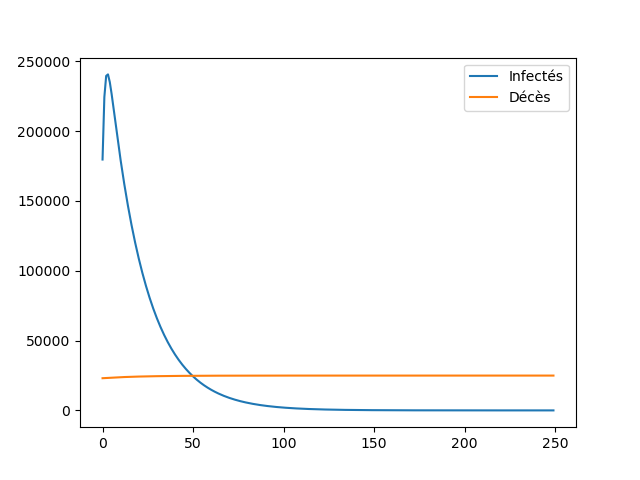
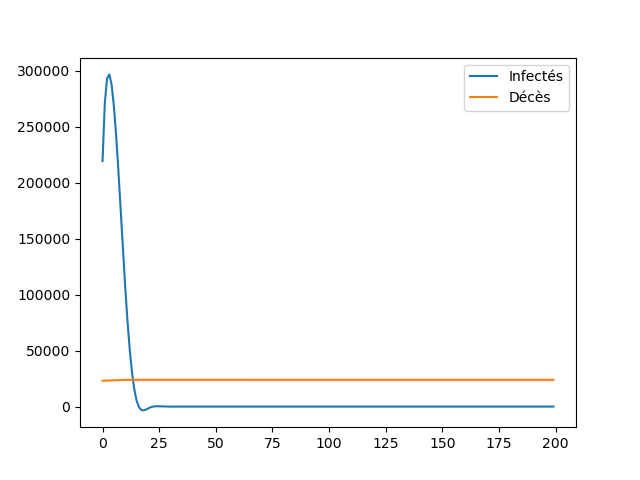
fs + dr

diff --git a/scire.py b/scire.py
@@ -8,28 +8,46 @@ import functools
 #Sain Contaminé Infecté Rétabli Etendu
 class SCIRE:
 
-    def __init__(self, S0 = 1, C0 = 0, I0 = 0, R0 = 0, r0 = 3.3, v = 2, lmbda = 15, mu = 0.005):
-        self.S = S0
-        self.C = C0
-        self.I = I0
-        self.R = R0
+    def __init__(self, S = 1, C = 0, I = 0, R = 0, r0 = 3.3, v = 2, lmbda = 15, mu = 0.005, dr = 0, fs = lambda _: 0):
+        """
+        :param S: Sain
+        :param C: Contaminé
+        :param I: Infecté
+        :param R: Rétablis
+        :param r0: nombre moyen de contaminé par un infecté
+        :param v: durée incubation sans être contagieux
+        :param lmbda: durée moyenne de contagieusité
+        :param mu: taux de mortalité
+        :param dr: facteur de décroissance de R par rapport à R0
+        :param fs: fonction de saisonalité
+        """
+        self.S = S
+        self.C = C
+        self.I = I
+        self.R = R
         self.DC = 0
         self.beta = r0 / lmbda
         self.v = v
         self.lmbda = lmbda
         self.mu = mu
-        self.fdsdt = lambda S, I: -self.beta * I * S  # ds/dt
-        self.fdcdt = lambda S, C, I,: self.beta * I * S - C / v  # dc/dt
+        self.dr = dr
+        self.fs = fs
+        self.i = 0
+        self.fdsdt = lambda S, I: -(self.beta+ self.fs(self.i)) * I * S  # ds/dt
+        self.fdcdt = lambda S, C, I,: (self.beta + self.fs(self.i)) * I * S - C / v  # dc/dt
         self.fdidt = lambda C, I: C / v - I / self.lmbda - self.mu * I  # dc/dt
         self.fdrdt = lambda I: -I / self.lmbda #dr/dt
-        self.fddcdt = lambda I: self.mu * I / lmbda #ddc/dt
+        self.fddcdt = lambda I: self.mu * I / self.lmbda #ddc/dt
+        self.fdbetadt = lambda : -self.dr / self.lmbda
 
     def computedt(self):
         self.S += self.fdsdt(self.S, self.I)
-        self.C += self.fdcdt(self.S, self.C, self.I)
-        self.I += self.fdidt(self.C, self.I)
+        self.C += np.max(self.fdcdt(self.S, self.C, self.I), 0)
+        self.I += np.max(self.fdidt(self.C, self.I), 0)
         self.R += self.fdrdt(self.I)
-        self.DC += self.fddcdt(self.I)
+        self.DC += np.max(self.fddcdt(self.I), 0)
+        self.beta += self.fdbetadt()
+        self.i += 1
 
     def compute(self, dt):
         scires = []
@@ -74,30 +92,31 @@ if __name__ == '__main__':
     # plt.show()
 
     # Confinement
-    DC45 = 2281
-    I0 = (DC45 / mu) / nbfrench #Taux Infection
-    notdetectedrate = 6
-    C0 = I0 * notdetectedrate #Taux Contaminé
-    S0 = 1 - I0 - C0 #Taux Sain
-    scire = SCIRE(S0, C0, I0, r0=0.8,v=v,lmbda=lmbda,mu=mu)
-    scires = scire.compute(118-45)
-    i = np.array([x.I for x in scires])
-    dc = np.array([x.DC for x in scires]) + DC45 / nbfrench
-    plt.plot(i * nbfrench, label="Infectés")
-    plt.plot(dc * nbfrench, label="Décès")
-    plt.legend()
-    plt.show()
+    # DC45 = 2281
+    # I0 = (DC45 / mu) / nbfrench #Taux Infection
+    # notdetectedrate = 6
+    # C0 = I0 * notdetectedrate #Taux Contaminé
+    # S0 = 1 - I0 - C0 #Taux Sain
+    # scire = SCIRE(S0, C0, I0, r0=0.8,v=v,lmbda=lmbda,mu=mu)
+    # scires = scire.compute(118-45)
+    # i = np.array([x.I for x in scires])
+    # dc = np.array([x.DC for x in scires]) + DC45 / nbfrench
+    # plt.plot(i * nbfrench, label="Infectés")
+    # plt.plot(dc * nbfrench, label="Décès")
+    # plt.legend()
+    # plt.show()
 
     # Déconfinement
     DC128 = 23000
     R128 = 180000
     detectionrate = 0.5 # 1 0.5 0.1
-    summerrate = 0.5 # 1 0.5 0.1
     C0 = ((DC128 / mu) - R128) / nbfrench * detectionrate
     I0 = C0 / notdetectedrate # Taux Infection
     S0 = 1 - I0 - C0  # Taux Sain
-    scire = SCIRE(S0, C0, I0, r0=R0 * detectionrate * summerrate,v=v,lmbda=lmbda,mu=mu) #R0,0.01,R0*0.1,1
-    scires = scire.compute(250)
+    fsummer = lambda x : -np.sin((x + 118 - 365 / 4 - 30) * 2 * np.pi / 365) * R0 / 2
+    print(fsummer(np.arange(365)))
+    scire = SCIRE(S0, C0, I0, r0=R0 * detectionrate,v=v,lmbda=lmbda,mu=mu,dr=0.01,fs = fsummer) #0.1 0.01
+    scires = scire.compute(365)
     ctot = 1 - np.array([x.S for x in scires])
     c = np.array([x.C for x in scires])
     i = np.array([x.I for x in scires])

diff --git a/readme.md b/readme.md
@@ -4,33 +4,34 @@
 <p>Evidement <b>je ne suis pas médecin</b> donc cette étude ne vaut rien!!</p>
 <p>J'ai téléchargé et nettoyé les données sur https://coronavirus.politologue.com/coronavirus-france.FR </p>
 <p>J'ai utilisé le framework Scikit-Learn en Python pour analyser les données avec du Machine Learning (ML) et une régression polynômiale ridge de degré 4. Il était impossible d'utiliser Keras car le nombre de données est trop faible</p>
-<p>J'ai également programmé en Python le modèle SCIRE (Sain-Contaminé-Infecté-Rétablie-Etendue) avec des améliorations d'après https://interstices.info/modeliser-la-propagation-dune-epidemie
+<p>J'ai également programmé en Python le modèle SCIRE+ (Sain-Contaminé-Infecté-Rétablie-Etendue) avec des améliorations en modulant le facteur r d'après https://interstices.info/modeliser-la-propagation-dune-epidemie
 <img src="data/scir.png"><img src="https://scikit-learn.org/stable/_static/scikit-learn-logo-small.png"><img src="https://www.python.org/static/img/python-logo@2x.png">
 <h2>Etude 3: Le déconfinement</h2>
-<p>Au déconfinement, le 11 mai (J128), je propose 4 scénarios, pour cela j'ai modifié SCIRE pour ajouter un taux de détection des individus infectés et un taux d'atténuation dû à l'été R = R * DetectionRate * SummerRate, le modèle ML ne peut pas marcher pour le scénarios pessimistes car il ne devine pas la remontée de la courbe
-<p>Scénario Marseillais optimiste: Comme le SRAS et comme le propose le professeur Raoult, le virus disparait, R = R0 * 0.1 * 0.1 = 0.03
+<p>Au déconfinement, le 11 mai (J128), je propose 4 scénarios, pour cela j'ai modifié SCIRE pour ajouter un taux de détection des individus infectés et une fonction d'atténuation sinusoidale dû à l'été R = R * DetectionRate * sin(2xpi/365)
+<p>Scénario Marseillais optimiste: Comme le SRAS et comme le propose le professeur Raoult, le virus disparait, R = R0 * 0.1 - sin(t) * R0 / 2 ~= 0
     <ul>
-        <li>Un petit pic arrive à J+5</li>
-        <li>Le virus s'éteint entre 0 et 50 jours</li>
+        <li>Le modèle SCIRE prévoit un petit pic à J+5 et une extinction du virus à J+50</li>
+        <li>Le modèle ML prévoit un extinction en Mai</li>
         <li>24000 décès au total</li>
     </ul>
     <img src="data/figured1.png">
 <p>Scénario Milanais pessimiste: le confinement est un échec, R=R0, peu probable car ne se produit pas ailleurs dans le monde
     <ul>
-        <li>Un énorme pic d'infection à J+30</li>
-        <li>40000 décès au total avec reconfinement, 500000 sans</li>
+        <li>Un énorme pic d'infection à J+10</li>
+        <li>Reconfinement</li>
     </ul>
     <img src="data/figured2.png">
-<p>Scénario Grenoblois médian: les mesures de protection fonctionnent avec 90% de détection, isolement des patients infectés, protections, un été protecteur, R=R0*0.1*0.5=0.16
+<p>Scénario Grenoblois médian: les mesures de protection fonctionnent avec 90% de détection, isolement des patients infectés, protections, un été protecteur, R = R0 * 0.1 - sin(t) * R0 / 2 ~= [0:0.5]
     <ul>
-        <li>Une petite reprise rapide, un été clément</li>
-        <li>Un second pic modeste à l'automne, entre 24000 et 30000 décès en fonction de l'intensité du 2ème pic</li>
+        <li>Un petit pic en mai, puis un été clément</li>
+        <li>Normalement pas de seconde vague si R continue à baisser, grosse incertitude pour l'automne</li>
     </ul>
     <img src="data/figured3.png">
 <p>Scénario Parisien médian-pessimiste : les mesures de détection fonctionnent moyennement à 50%, le reste fonctionne bien et l'été fait son travail, R=R0*0.5*0.5=0.83
     <ul>
-        <li>Un pic moyen en Mai, un mois de Juin faussement tranquille</li>
-        <li>Un second pic entre Juillet et Novembre, reconfinement possible, + de 50000 décès</li>
+        <li>Un second pic en mai et un été tranquille</li>
+        <li>D'après le modèle ML un pic à l'automne, d'après SCIRE un énorme pic au printemps 2021</li>
+        <li>40000 décès à la fin de l'été</li>
     </ul>
     <img src="data/figured4.png">
 <p>La moindre variation du paramètre R peut complètement modifier l'évolution de l'épidémie, le ML ne possède pas assez données pour être fiable, il faut donc rester modeste</p>
